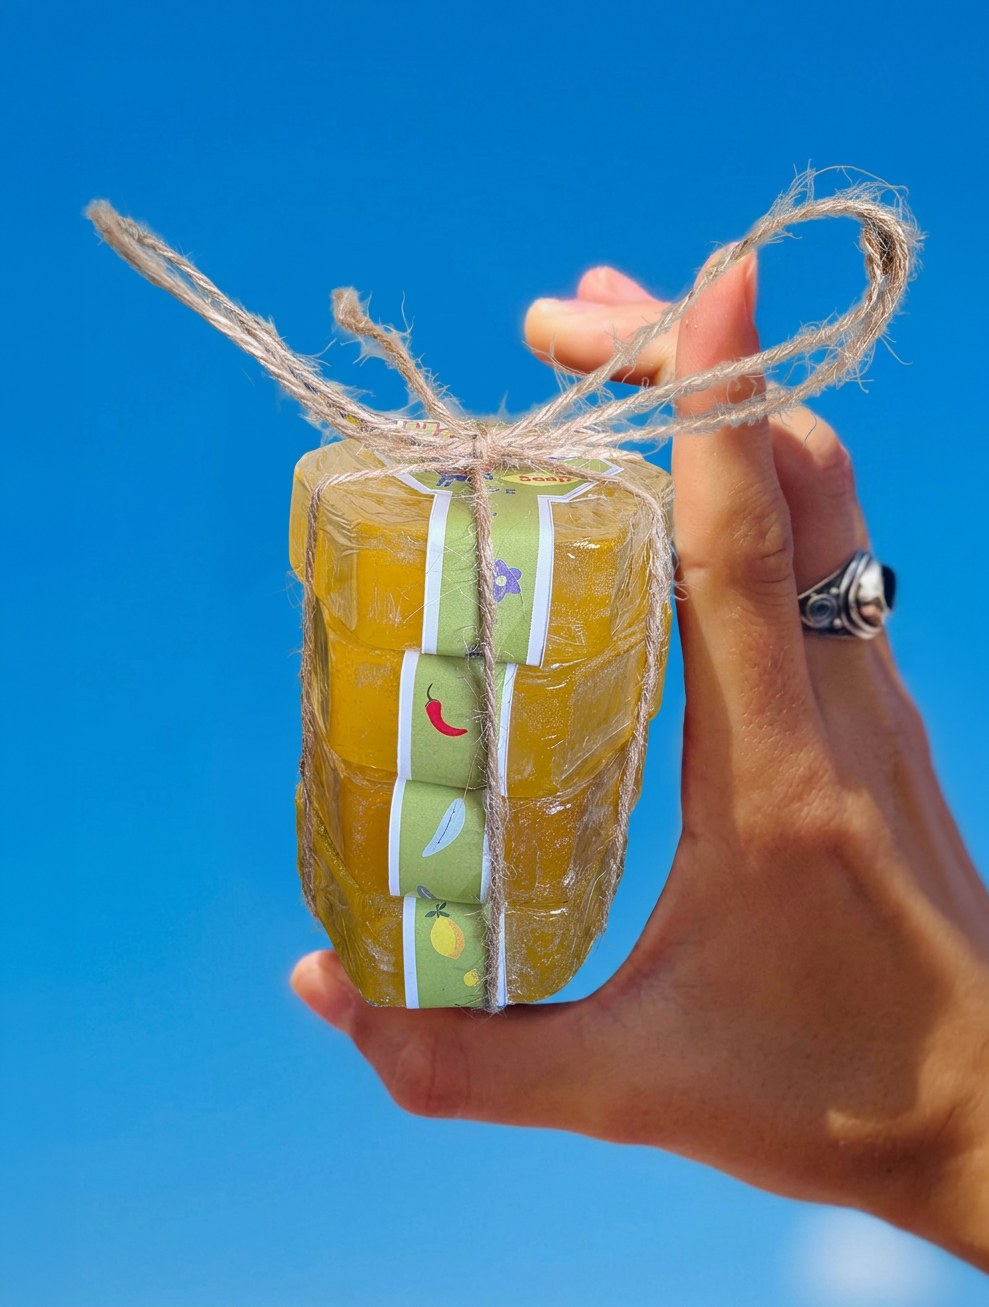
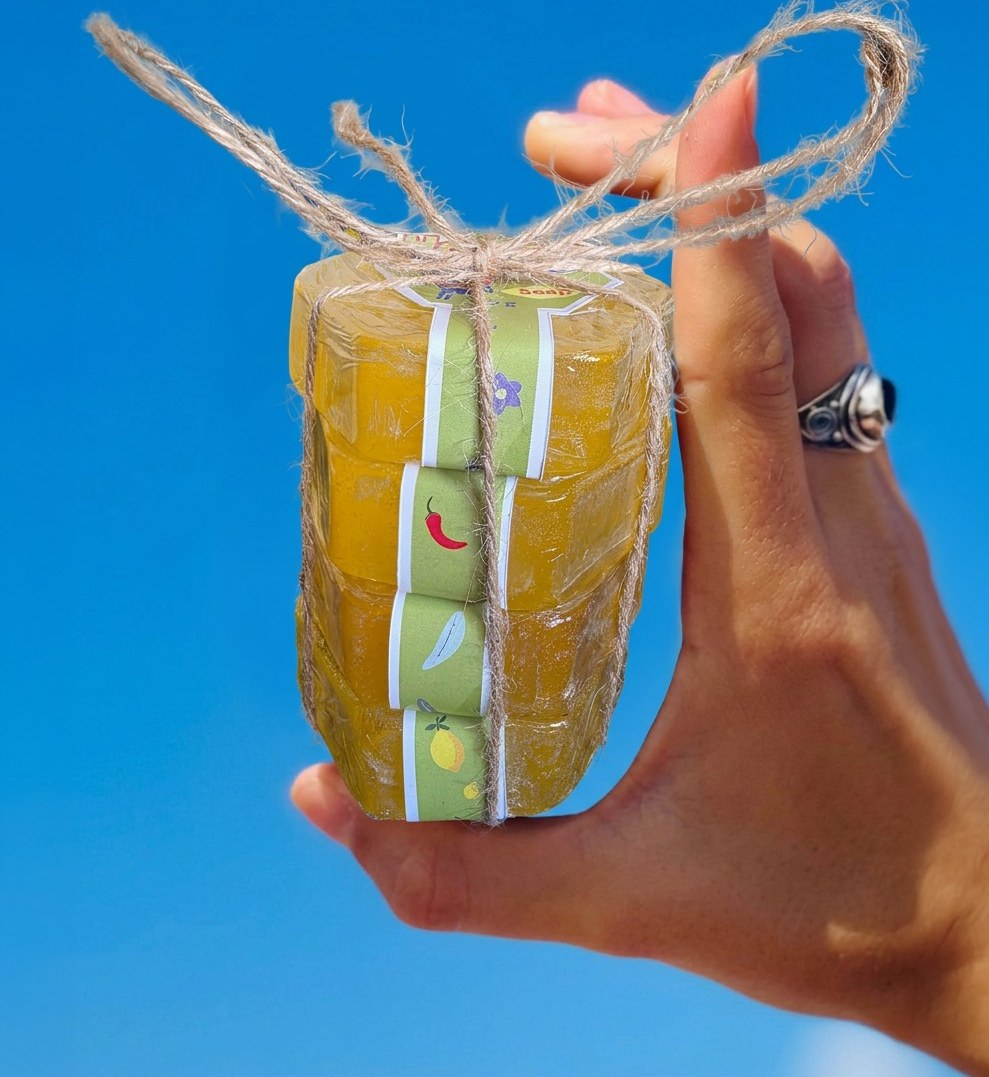
Restore the side A label, match the Honeest pair, new ChikChak header
The side A record label was a fourth transparent PNG I had flattened.
My earlier scan missed it because git escapes non-ASCII filenames and
wraps them in quotes, so filtering on a .png suffix skipped it silently.
Rescanned with core.quotePath=false, which found it and confirmed there
are no others. Both labels now sit as circles on the page ground rather
than on a black square. Noted in CLAUDE.md so the trap is not re-set.

Honeest: the blue-sky shot is cropped from 989x1307 to 989x1077, the
same 0.918 proportion as the wildflower shot beside it, so the pair
matches instead of ending ragged. The 230px came off where the picture
is empty, 187 above the twine bow and 43 below the hand, measured
rather than guessed, so nothing of the subject is lost.

ChikChak: the new upload becomes the header and the home page card. The
cover it replaces is distinct enough from the other wall shots to keep,
so it joins the gallery as a seventh piece.

Verified: three cut-outs render with no background, the Honeest pair
comes out at 564px each on one row, every gallery loads whole.

Claude-Session: https://claude.ai/code/session_01W9nRTNjjATAc83RHb9wNSu

diff --git a/projects/hadelet-haptucha.html b/projects/hadelet-haptucha.html
@@ -91,8 +91,8 @@
         <img src="../assets/projects/hadelet-haptucha/04.jpg" alt="The gatefold poster unfolded beside the record" loading="lazy" decoding="async" />
       </figure>
 
-      <figure class="media media--half">
-        <img src="../assets/projects/hadelet-haptucha/05.jpg" alt="Record label, side A" loading="lazy" decoding="async" />
+      <figure class="media media--half media--cutout">
+        <img src="../assets/projects/hadelet-haptucha/05.png" alt="Record label, side A" loading="lazy" decoding="async" />
       </figure>
 
       <figure class="media media--half media--cutout">

diff --git a/projects/chik-chak.html b/projects/chik-chak.html
@@ -106,6 +106,10 @@
       <figure class="media media--full">
         <img src="../assets/projects/chik-chak/06.jpg" alt="The ChikChak exhibition wall" loading="lazy" decoding="async" />
       </figure>
+
+      <figure class="media media--full">
+        <img src="../assets/projects/chik-chak/07.jpg" alt="The exhibition wall with the tote bags" loading="lazy" decoding="async" />
+      </figure>
     </div>
   </section>
 

diff --git a/CLAUDE.md b/CLAUDE.md
@@ -21,6 +21,14 @@ Filenames must be lowercase ASCII with no spaces. Hebrew, Cyrillic and
 spaces all need percent-encoding in a URL and break on some hosts.
 Rename on the way in.
 
+When listing files through git, pass `-c core.quotePath=false`. Without
+it, non-ASCII names come back escaped and wrapped in quotes, so a filter
+like `name.endswith(".png")` skips them without a word. That is how a
+transparent PNG got missed and flattened onto a background.
+
+Check for an alpha channel before converting any PNG. Flattening one to
+JPEG paints a background behind cut-out artwork.
+
 Images: 1800-2000 px on the long side, JPG q88 (q90 for flat colour with
 hard edges). GitHub's web uploader rejects anything over 25 MB, and git
 itself refuses files over 100 MB.
